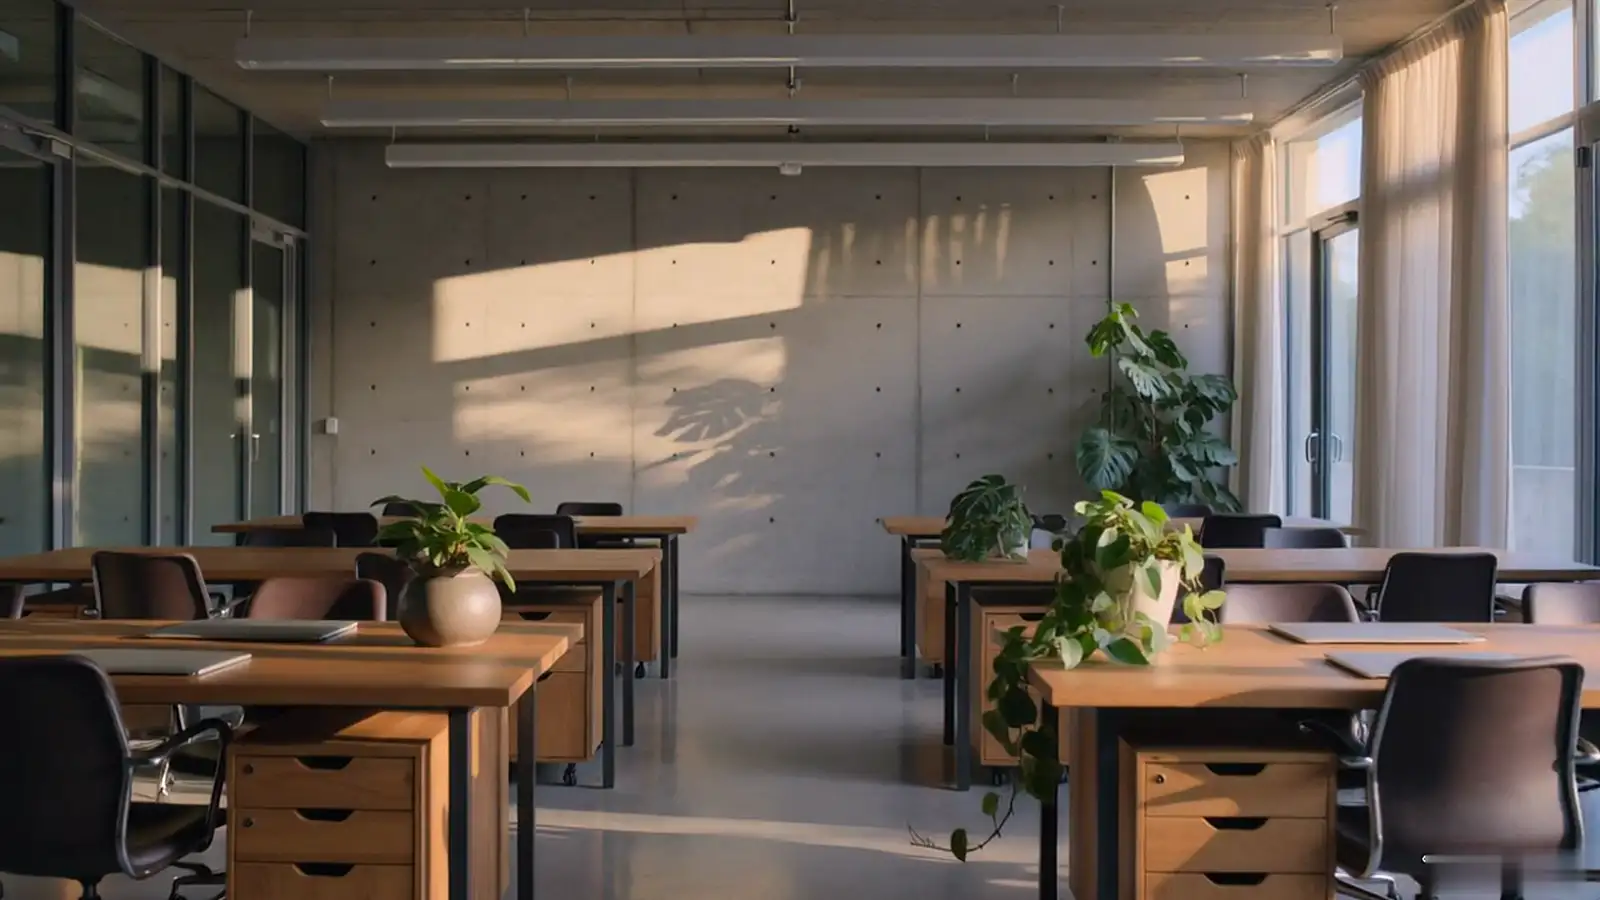
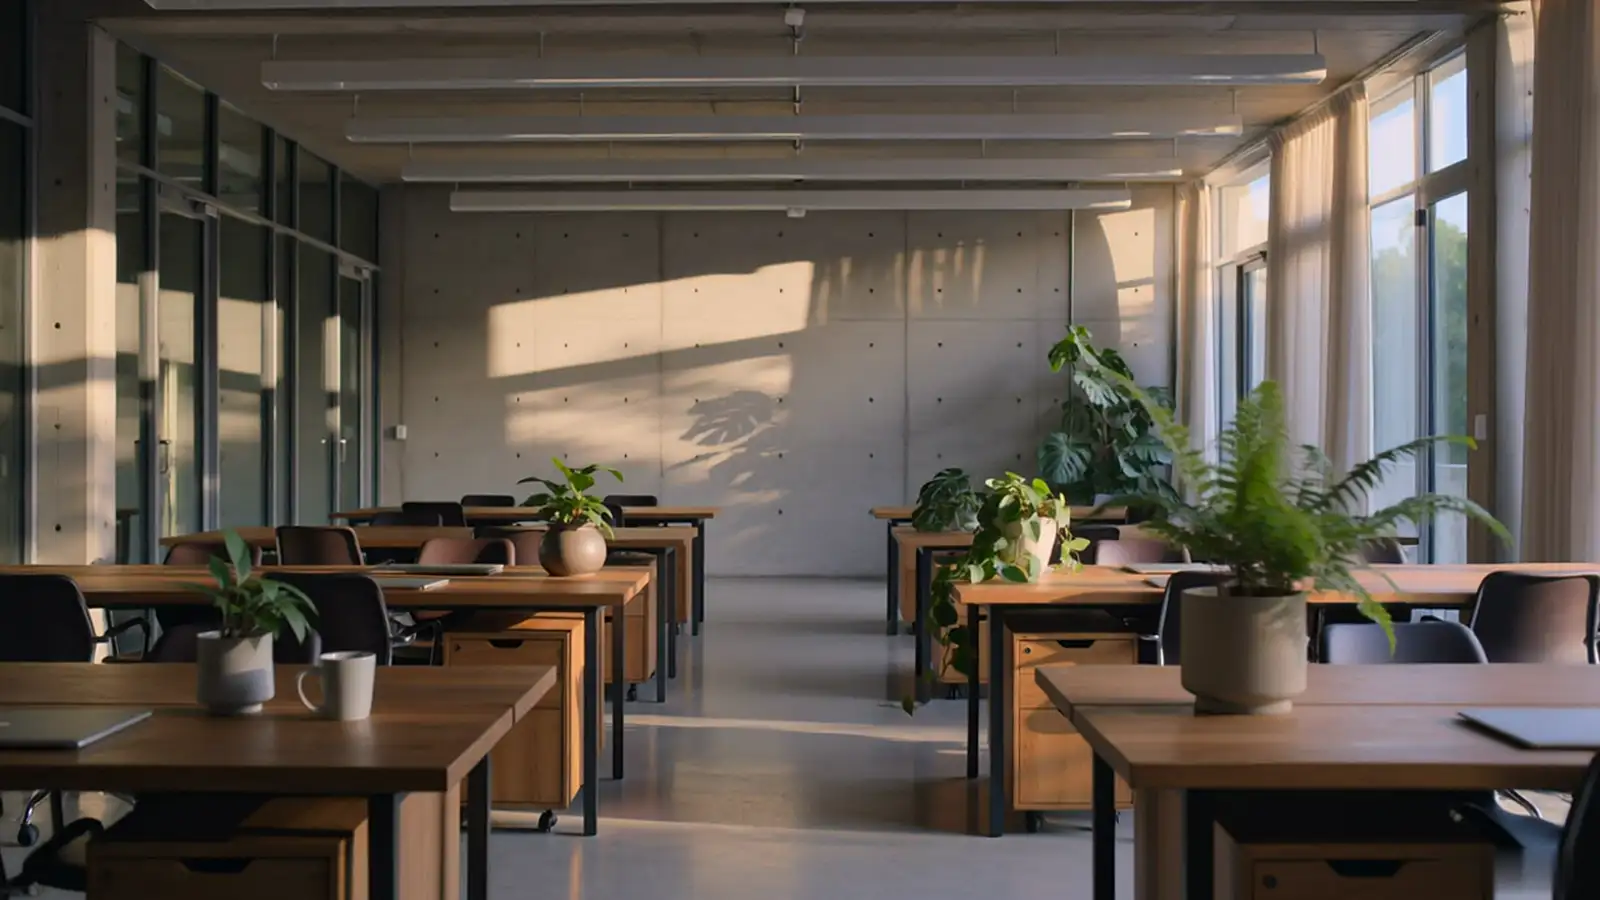
Fix defects found reviewing the performance work
Poster frame (worst one, mine): scripts/encode-hero-video.sh hardcoded frame
192 for every clip, but only Cinema opens on the last frame - it renders with
`reverse`. CinematicHero scrubs forward from t=0, so the poster was the END of
the camera move while the video started at the beginning, and the "invisible"
cross-fade was a visible jump. It was also the only image mobile ever saw.
Poster frame is now per-clip (hero:0, hero-v2:192). Verified: poster vs video
frame 0 is now 37.6 dB PSNR, was 13.2 dB.

Services hero: full.css:2195 overrides that slot to position:absolute;inset:0
full-bleed, so the 30vw sizes hint made a 1440px desktop pick the 620w
candidate and stretch it across the viewport - softer than before the change.
Now sizes 100vw with a 16/9 crop and 1000/1400/2000 candidates.

Stalled-download trap: isFullyBuffered() had no timeout, so a stalled fetch
left `ready` false forever while the pin was already created - 2.4 viewports
of frozen poster with no way out. Now drops the pin after 10s and degrades to
the static poster block mobile gets.

Also: prime() no longer undoes a seek markReady already applied; listeners and
in-flight fetches are torn down on unmount; tweens are killed, not just their
ScrollTriggers; the encode script's no-arg invocation actually works (the
default expanded as a single word) and no longer writes AV1/AVIF/JPEG files
that nothing references; --font-body removed (defined by nothing, consumed by
[…]

diff --git a/web/src/components/full/Cinema.tsx b/web/src/components/full/Cinema.tsx
@@ -3,6 +3,7 @@
 import { useEffect, useRef } from "react";
 import type { CSSProperties } from "react";
 import {
+  BUFFER_TIMEOUT_MS,
   canPlayVideo,
   isFullyBuffered,
   SEEK_EPS,
@@ -61,7 +62,10 @@ export default function Cinema({ videoSrc, posterSrc, reverse = false }: Props) 
             },
           }
         );
-        cleanups.push(() => captionTween.scrollTrigger?.kill());
+        cleanups.push(() => {
+          captionTween.scrollTrigger?.kill();
+          captionTween.kill();
+        });
       }
 
       // See CinematicHero for the rationale. On mobile this section becomes a
@@ -95,9 +99,12 @@ export default function Cinema({ videoSrc, posterSrc, reverse = false }: Props) 
       let ready = false;
       let seekRaf = 0;
 
+      let bufferTimer = 0;
+
       const markReady = () => {
         if (ready || !isFullyBuffered(video)) return;
         ready = true;
+        clearTimeout(bufferTimer);
         // reverse: this section opens on the LAST frame.
         if (reverse) targetTime = Math.max(video.duration - 0.01, 0);
         container.dataset.videoReady = "true";
@@ -105,10 +112,6 @@ export default function Cinema({ videoSrc, posterSrc, reverse = false }: Props) 
       };
       video.addEventListener("progress", markReady);
       video.addEventListener("canplaythrough", markReady);
-      cleanups.push(() => {
-        video.removeEventListener("progress", markReady);
-        video.removeEventListener("canplaythrough", markReady);
-      });
 
       // Some browsers refuse to paint a <video> that has never played. Prime it
       // muted, then park it on the frame this section should open on.
@@ -117,7 +120,12 @@ export default function Cinema({ videoSrc, posterSrc, reverse = false }: Props) 
           .play()
           .then(() => {
             video.pause();
-            video.currentTime = reverse ? Math.max(video.duration - 0.01, 0) : 0;
+            // Don't undo a seek markReady has already applied.
+            if (!ready) {
+              video.currentTime = reverse
+                ? Math.max(video.duration - 0.01, 0)
+                : 0;
+            }
           })
           .catch(() => video.pause());
       };
@@ -143,7 +151,29 @@ export default function Cinema({ videoSrc, posterSrc, reverse = false }: Props) 
         },
       });
       cleanups.push(() => st.kill());
+      // onToggle does not fire on creation — seed it so a deep link into this
+      // section still scrubs.
       active = st.isActive;
+
+      // Never buffered? Drop the pin instead of trapping the visitor in a
+      // frozen section; they get the static poster block.
+      bufferTimer = window.setTimeout(() => {
+        if (ready) return;
+        container.dataset.video = "off";
+        video.removeAttribute("src");
+        video.load();
+        st.kill();
+        ScrollTrigger.refresh();
+      }, BUFFER_TIMEOUT_MS);
+
+      cleanups.push(() => {
+        clearTimeout(bufferTimer);
+        video.removeEventListener("progress", markReady);
+        video.removeEventListener("canplaythrough", markReady);
+        video.removeEventListener("loadeddata", prime);
+        video.removeAttribute("src");
+        video.load(); // abort any in-flight fetch
+      });
 
       const applySeek = () => {
         seekRaf = requestAnimationFrame(applySeek);

diff --git a/web/src/components/cinematic/CinematicHero.tsx b/web/src/components/cinematic/CinematicHero.tsx
@@ -3,6 +3,7 @@
 import { useEffect, useRef } from "react";
 import type { CSSProperties } from "react";
 import {
+  BUFFER_TIMEOUT_MS,
   canPlayVideo,
   isFullyBuffered,
   SEEK_EPS,
@@ -72,18 +73,17 @@ export default function CinematicHero({ videoSrc, posterSrc, subtitle }: Props) 
       let ready = false;
       let seekRaf = 0;
 
+      let bufferTimer = 0;
+
       const markReady = () => {
         if (ready || !isFullyBuffered(video)) return;
         ready = true;
+        clearTimeout(bufferTimer);
         container.dataset.videoReady = "true"; // CSS cross-fades video over poster
         video.currentTime = targetTime;
       };
       video.addEventListener("progress", markReady);
       video.addEventListener("canplaythrough", markReady);
-      cleanups.push(() => {
-        video.removeEventListener("progress", markReady);
-        video.removeEventListener("canplaythrough", markReady);
-      });
 
       // Some browsers refuse to paint a <video> that has never played, leaving a
       // black box under the cross-fade. Prime it muted, then park it.
@@ -92,7 +92,9 @@ export default function CinematicHero({ videoSrc, posterSrc, subtitle }: Props) 
           .play()
           .then(() => {
             video.pause();
-            video.currentTime = 0;
+            // markReady may already have seeked to the scroll position; don't
+            // yank it back to the start.
+            if (!ready) video.currentTime = 0;
           })
           .catch(() => video.pause());
       };
@@ -121,7 +123,31 @@ export default function CinematicHero({ videoSrc, posterSrc, subtitle }: Props) 
         },
       });
       cleanups.push(() => st.kill());
+      // onToggle does not fire on creation, so seed it — otherwise a deep link
+      // or a mid-page refresh lands inside the pinned section with active=false
+      // and the clip never scrubs.
       active = st.isActive;
+
+      // If it never finishes buffering, drop the pin rather than trapping the
+      // visitor in a frozen section. Degrades to the static poster block that
+      // mobile already gets.
+      bufferTimer = window.setTimeout(() => {
+        if (ready) return;
+        container.dataset.video = "off";
+        video.removeAttribute("src");
+        video.load();
+        st.kill();
+        ScrollTrigger.refresh();
+      }, BUFFER_TIMEOUT_MS);
+
+      cleanups.push(() => {
+        clearTimeout(bufferTimer);
+        video.removeEventListener("progress", markReady);
+        video.removeEventListener("canplaythrough", markReady);
+        video.removeEventListener("loadeddata", prime);
+        video.removeAttribute("src");
+        video.load(); // abort any in-flight fetch
+      });
 
       const fadeTween = gsap.to(
         container.querySelector(".cinematic-foreground"),
@@ -137,7 +163,10 @@ export default function CinematicHero({ videoSrc, posterSrc, subtitle }: Props) 
           },
         }
       );
-      cleanups.push(() => fadeTween.scrollTrigger?.kill());
+      cleanups.push(() => {
+        fadeTween.scrollTrigger?.kill();
+        fadeTween.kill();
+      });
 
       const applySeek = () => {
         seekRaf = requestAnimationFrame(applySeek);

diff --git a/web/src/components/full/Transform.tsx b/web/src/components/full/Transform.tsx
@@ -81,9 +81,9 @@ export default function Transform() {
           <span className="full-ba-label before">Before</span>
           <div className="full-ba-img full-ba-before">
             <img
-              src={px(BEFORE_IMG, 1800, 771)}
+              src={px(BEFORE_IMG, 1800, 772)}
               srcSet={pxSet(BEFORE_IMG, [1200, 1800, 2400], 2400 / 1029)}
-              sizes="100vw"
+              sizes="(min-width: 1480px) 1480px, 100vw"
               alt="A bare, cool open-plan office before restructure"
               width={1800}
               height={771}
@@ -98,18 +98,18 @@ export default function Transform() {
               <source
                 type="image/avif"
                 srcSet={`${BASE}/photos/nature-after-1200.avif 1200w, ${BASE}/photos/nature-after-1800.avif 1800w, ${BASE}/photos/nature-after-2400.avif 2400w`}
-                sizes="100vw"
+                sizes="(min-width: 1480px) 1480px, 100vw"
               />
               <source
                 type="image/webp"
                 srcSet={`${BASE}/photos/nature-after-1200.webp 1200w, ${BASE}/photos/nature-after-1800.webp 1800w, ${BASE}/photos/nature-after-2400.webp 2400w`}
-                sizes="100vw"
+                sizes="(min-width: 1480px) 1480px, 100vw"
               />
               <img
                 src={`${BASE}/photos/nature-after.jpg`}
                 alt="The same floor restructured, warm with plants, wood and daylight"
-                width={1915}
-                height={821}
+                width={1800}
+                height={772}
                 loading="lazy"
                 decoding="async"
               />

diff --git a/web/src/app/services/page.tsx b/web/src/app/services/page.tsx
@@ -114,14 +114,16 @@ export default function ServicesPage() {
               </h1>
             </div>
             <div className="svc-hero-img" data-reveal>
-              {/* 4/5 slot, ~409x511 desktop. Was a 1200x1500 source. */}
+              {/* Full-bleed: full.css:2195 overrides this slot to
+                  position:absolute;inset:0 with object-fit:cover, so it covers
+                  the viewport at every width. Landscape crop, sizes 100vw. */}
               <img
-                src={px(SVC_HERO, 840, 1050)}
-                srcSet={pxSet(SVC_HERO, [420, 620, 840], 4 / 5)}
-                sizes="(max-width: 1100px) 100vw, 30vw"
+                src={px(SVC_HERO, 2000, 1125)}
+                srcSet={pxSet(SVC_HERO, [1000, 1400, 2000], 16 / 9)}
+                sizes="100vw"
                 alt="Modern office with wooden furniture and plants"
-                width={840}
-                height={1050}
+                width={2000}
+                height={1125}
                 fetchPriority="high"
                 decoding="async"
               />

diff --git a/web/src/lib/videoGate.ts b/web/src/lib/videoGate.ts
@@ -22,6 +22,17 @@ export const SRC_FPS = 24;
 /** Just under one frame, so we never flush the decoder for the frame already shown. */
 export const SEEK_EPS = 0.9 / SRC_FPS;
 
+/**
+ * How long to wait for a full buffer before giving up on the video.
+ *
+ * Without this, a stalled download leaves `ready` false forever while the
+ * ScrollTrigger pin is already in place — so the visitor scrolls roughly two
+ * and a half viewports through a frozen poster with no way out. On timeout the
+ * caller drops the pin and the section degrades to the static poster block
+ * mobile already gets.
+ */
+export const BUFFER_TIMEOUT_MS = 10_000;
+
 export function canPlayVideo(): boolean {
   if (typeof window === "undefined") return false;
 

diff --git a/web/src/components/full/ServiceDetail.tsx b/web/src/components/full/ServiceDetail.tsx
@@ -77,7 +77,7 @@ export default function ServiceDetail({ data }: { data: ServiceData }) {
                     <img
                       src={px(s.image, 1240, 620)}
                       srcSet={pxSet(s.image, [620, 900, 1240], 2)}
-                      sizes="(max-width: 680px) 100vw, (max-width: 1024px) 45vw, 30vw"
+                      sizes="(max-width: 680px) 100vw, 45vw"
                       alt={s.alt}
                       width={1240}
                       height={620}

diff --git a/web/src/app/page.tsx b/web/src/app/page.tsx
@@ -20,7 +20,8 @@ export default function Home() {
         justifyContent: "center",
         background: "#0f2f11",
         color: "#f5efe0",
-        fontFamily: "var(--font-display), Georgia, serif",
+        // Outside the full-root wrapper, so --font-display is not defined here.
+        fontFamily: "'EB Garamond', Georgia, serif",
         fontStyle: "italic",
         fontSize: "30px",
         letterSpacing: "0.4px",

diff --git a/web/src/app/full/full.css b/web/src/app/full/full.css
@@ -96,7 +96,9 @@
 }
 .full-pill .brand .logo {
   height: 26px;
-  width: auto;
+  /* Pinned rather than auto: the SVG's true ratio (1141:751) resolves to
+     39.5px, so `auto` reflowed the pill by half a pixel once it parsed. */
+  width: 40px;
   display: block;
 }
 .full-pill .divider {

diff --git a/web/src/app/globals.css b/web/src/app/globals.css
@@ -18,7 +18,6 @@
 
   --font-display: var(--font-display);
   --font-sans: var(--font-sans);
-  --font-body: var(--font-body);
 }
 
 :root {
